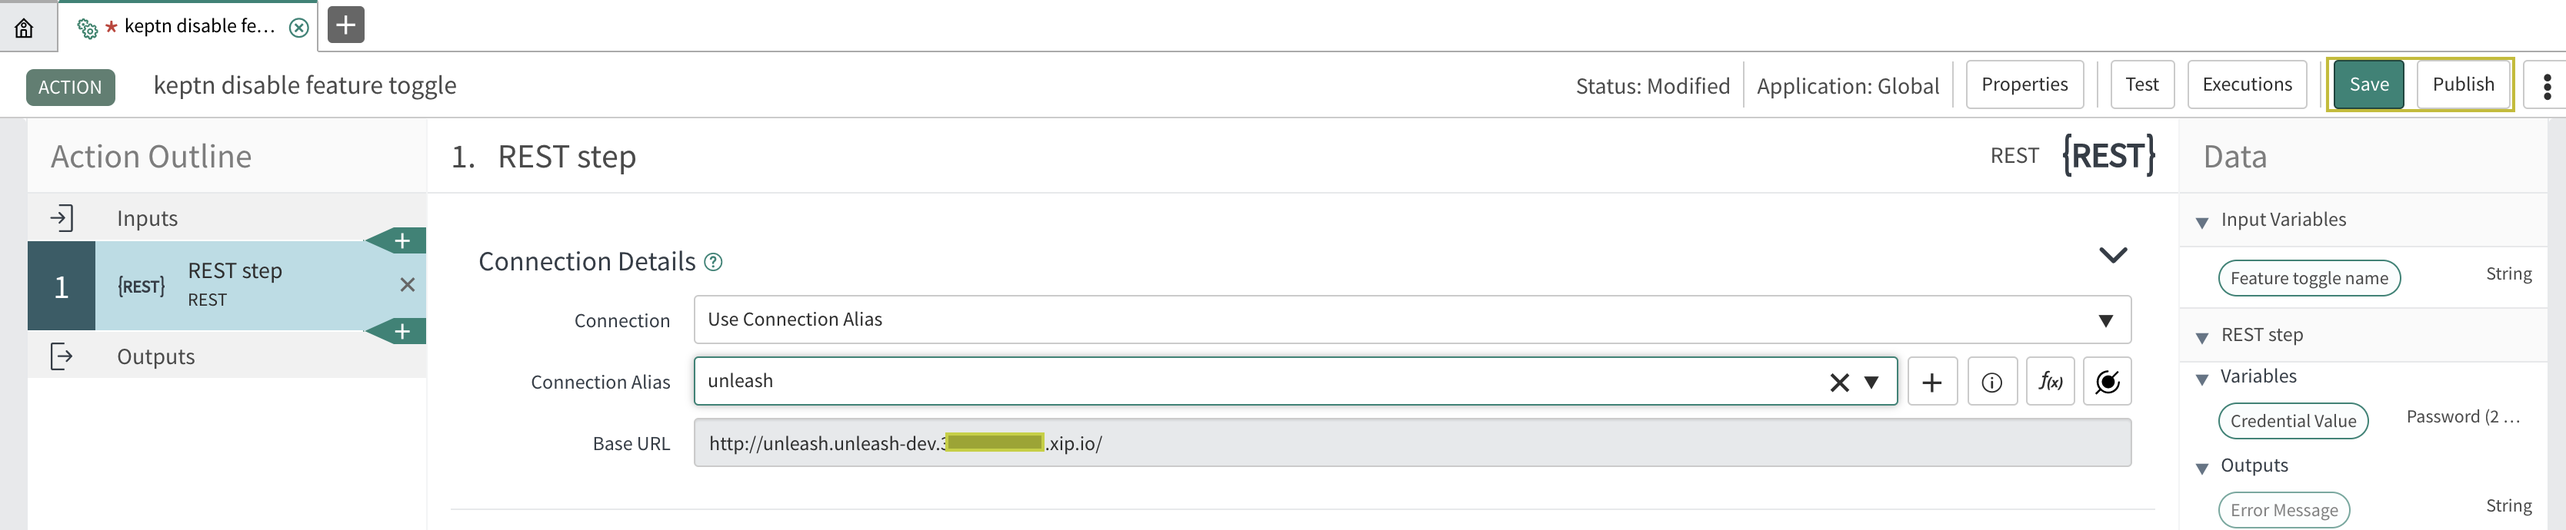
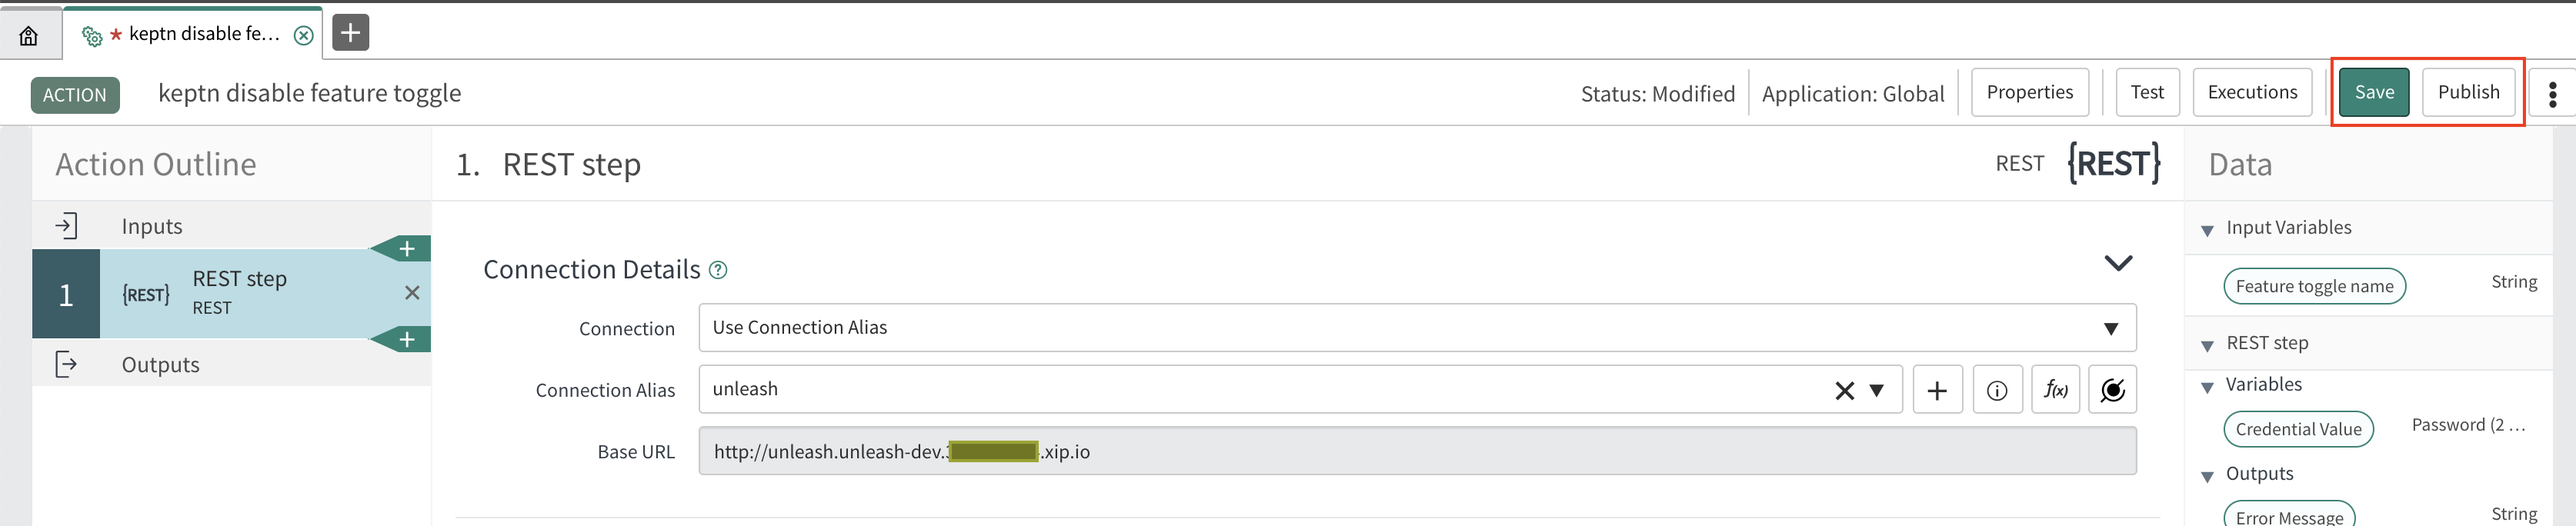
update unleash url steps

diff --git a/workshop/12_keptn/06_Runbook_Automation/README.md b/workshop/12_keptn/06_Runbook_Automation/README.md
@@ -134,7 +134,7 @@ For ServiceNow to be able to connect to the Unleash server, we have to add creat
     - Name: unleash connection
     - Credential: unleash creds
     - Connection alias: unleash
-    - Connection URL: `http://unleash.unleash-dev.XX.XX.XX.XXX.xip.io/`
+    - Connection URL: `http://unleash.unleash-dev.XX.XX.XX.XXX.xip.io`
 1. Click on submit
 
 ![unleash creds](../assets/unleash-creds.png)
@@ -158,13 +158,13 @@ A ServiceNow Update Set is provided to run this tutorial. To install the Update 
 
     ![servicenow updateset list](../assets/service-now-update-set-list.png)
 
-6. In the right upper corner, click on Preview Update Set and once previewed, click on Commit Update Set to add the required configurations required for this tutorial to your instance.
+1. In the right upper corner, click on Preview Update Set and once previewed, click on Commit Update Set to add the required configurations required for this tutorial to your instance.
 
     ![servicenow updateset commit](../assets/service-now-update-set-commit.png)
 
     **Note:** The update set will add an alert management rule named `keptn - Create incident and run remediation subflow` and a subflow: `keptn auto-remediate service failure rate` to your instance on the global application scope.
 
-1. Navigate to `Integration Hub` -> `Action Designer` and search for the action `keptn auto-remediate service failure rate`
+1. Navigate to `Integration Hub` -> `Action Designer` and search for the action `keptn disable feature toggle`
 
     ![servicenow-keptn-action](../assets/servicenow-keptn-action.png)
 
